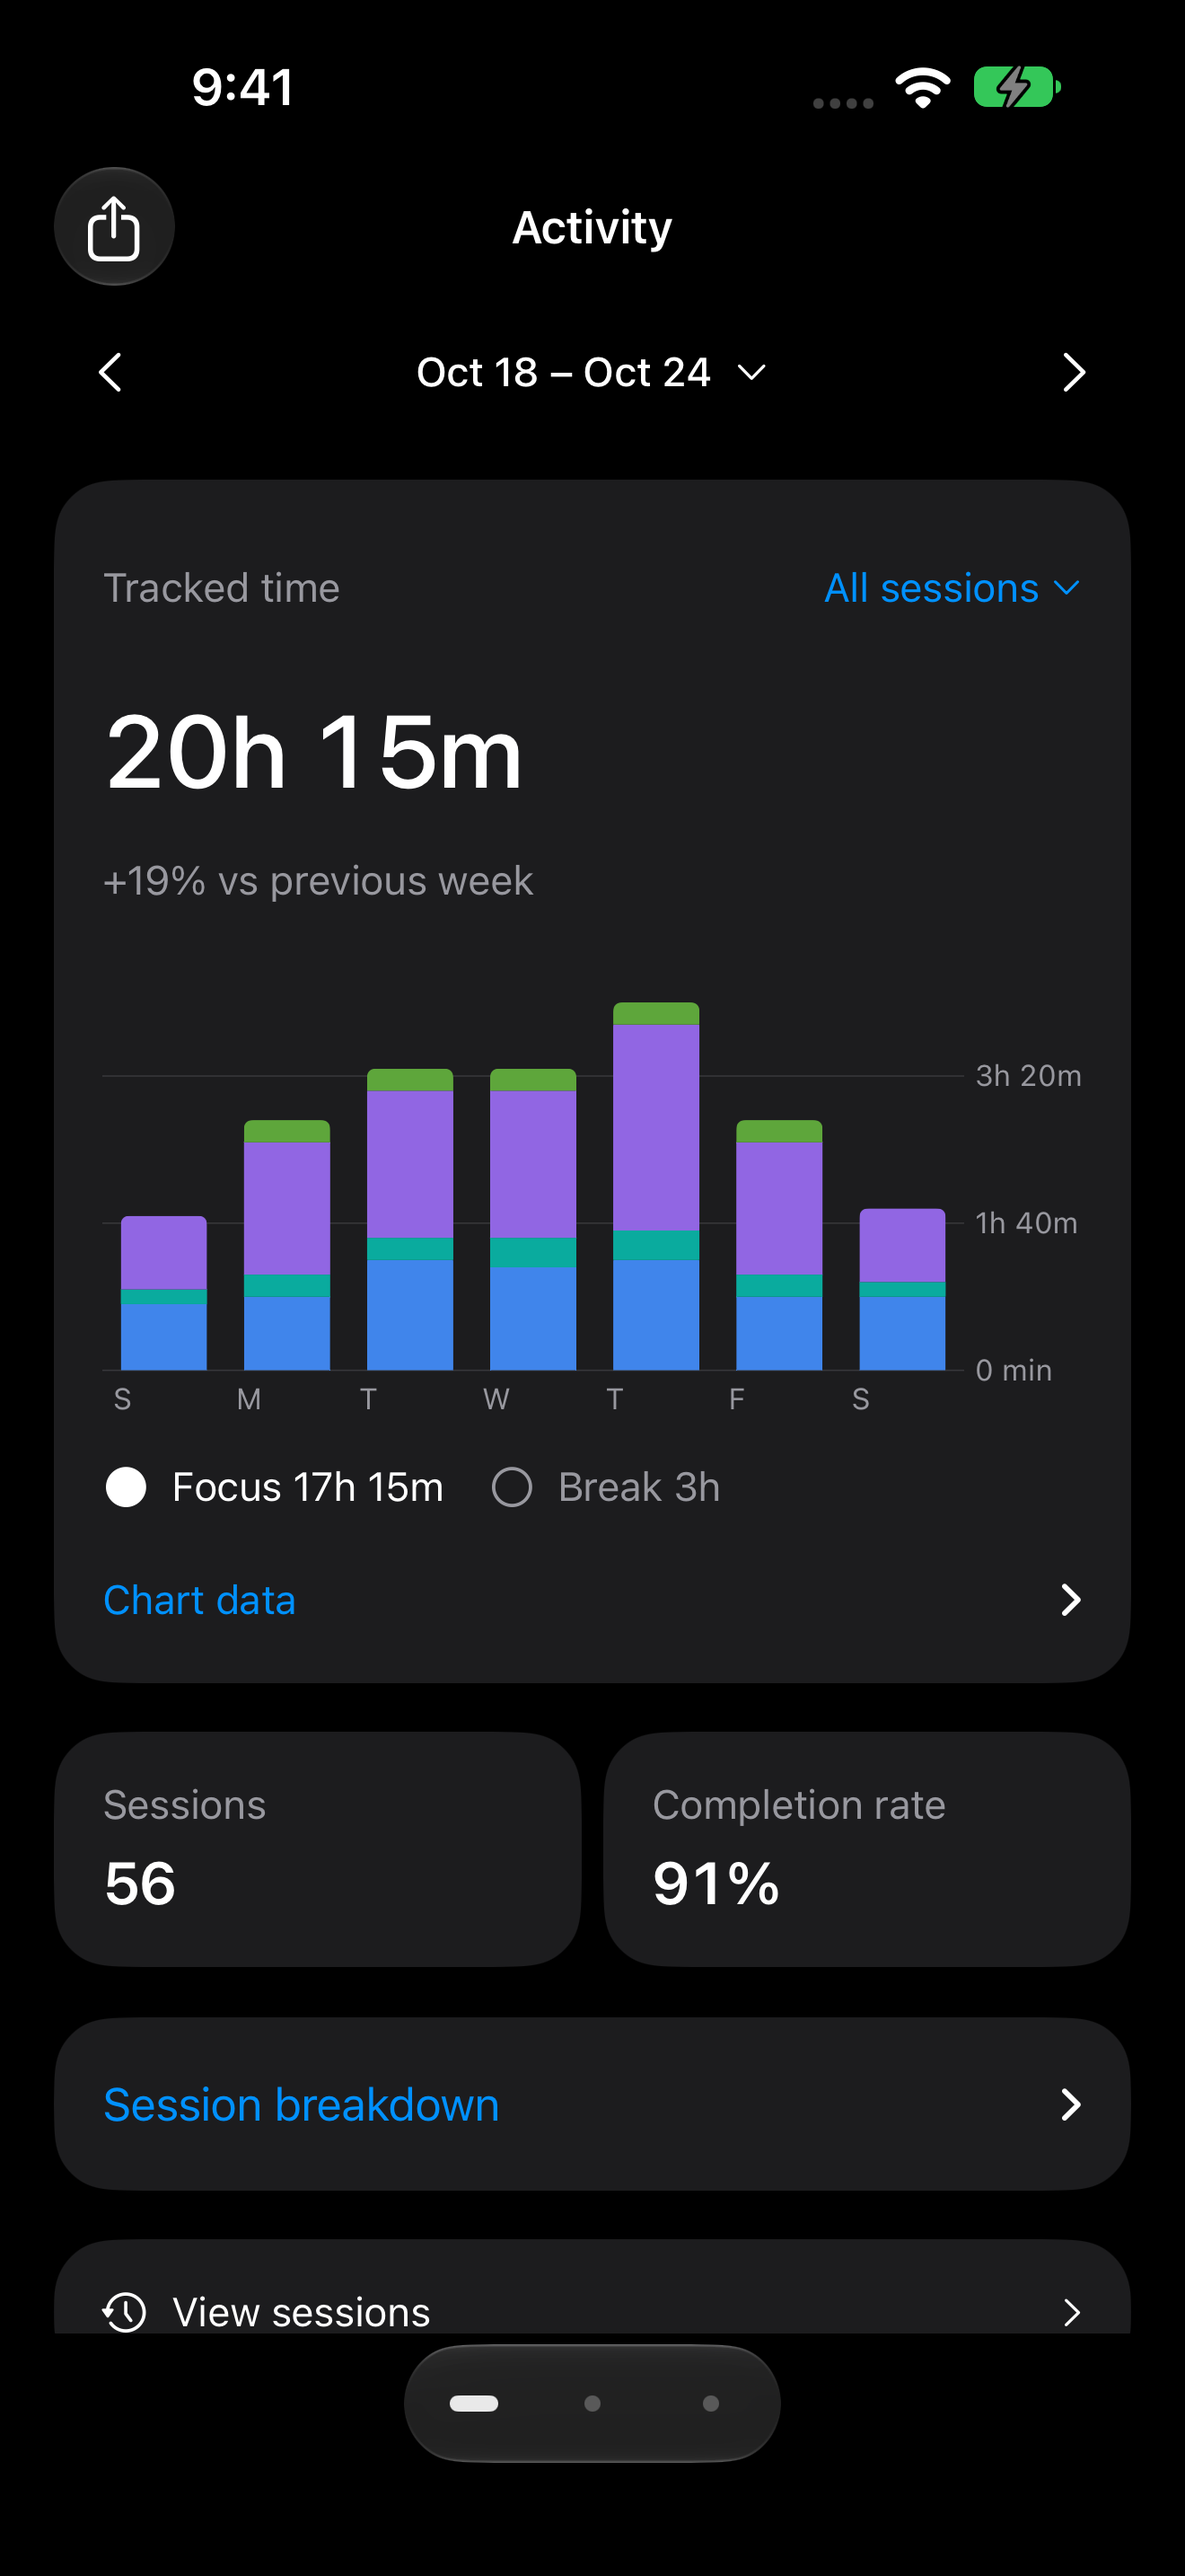
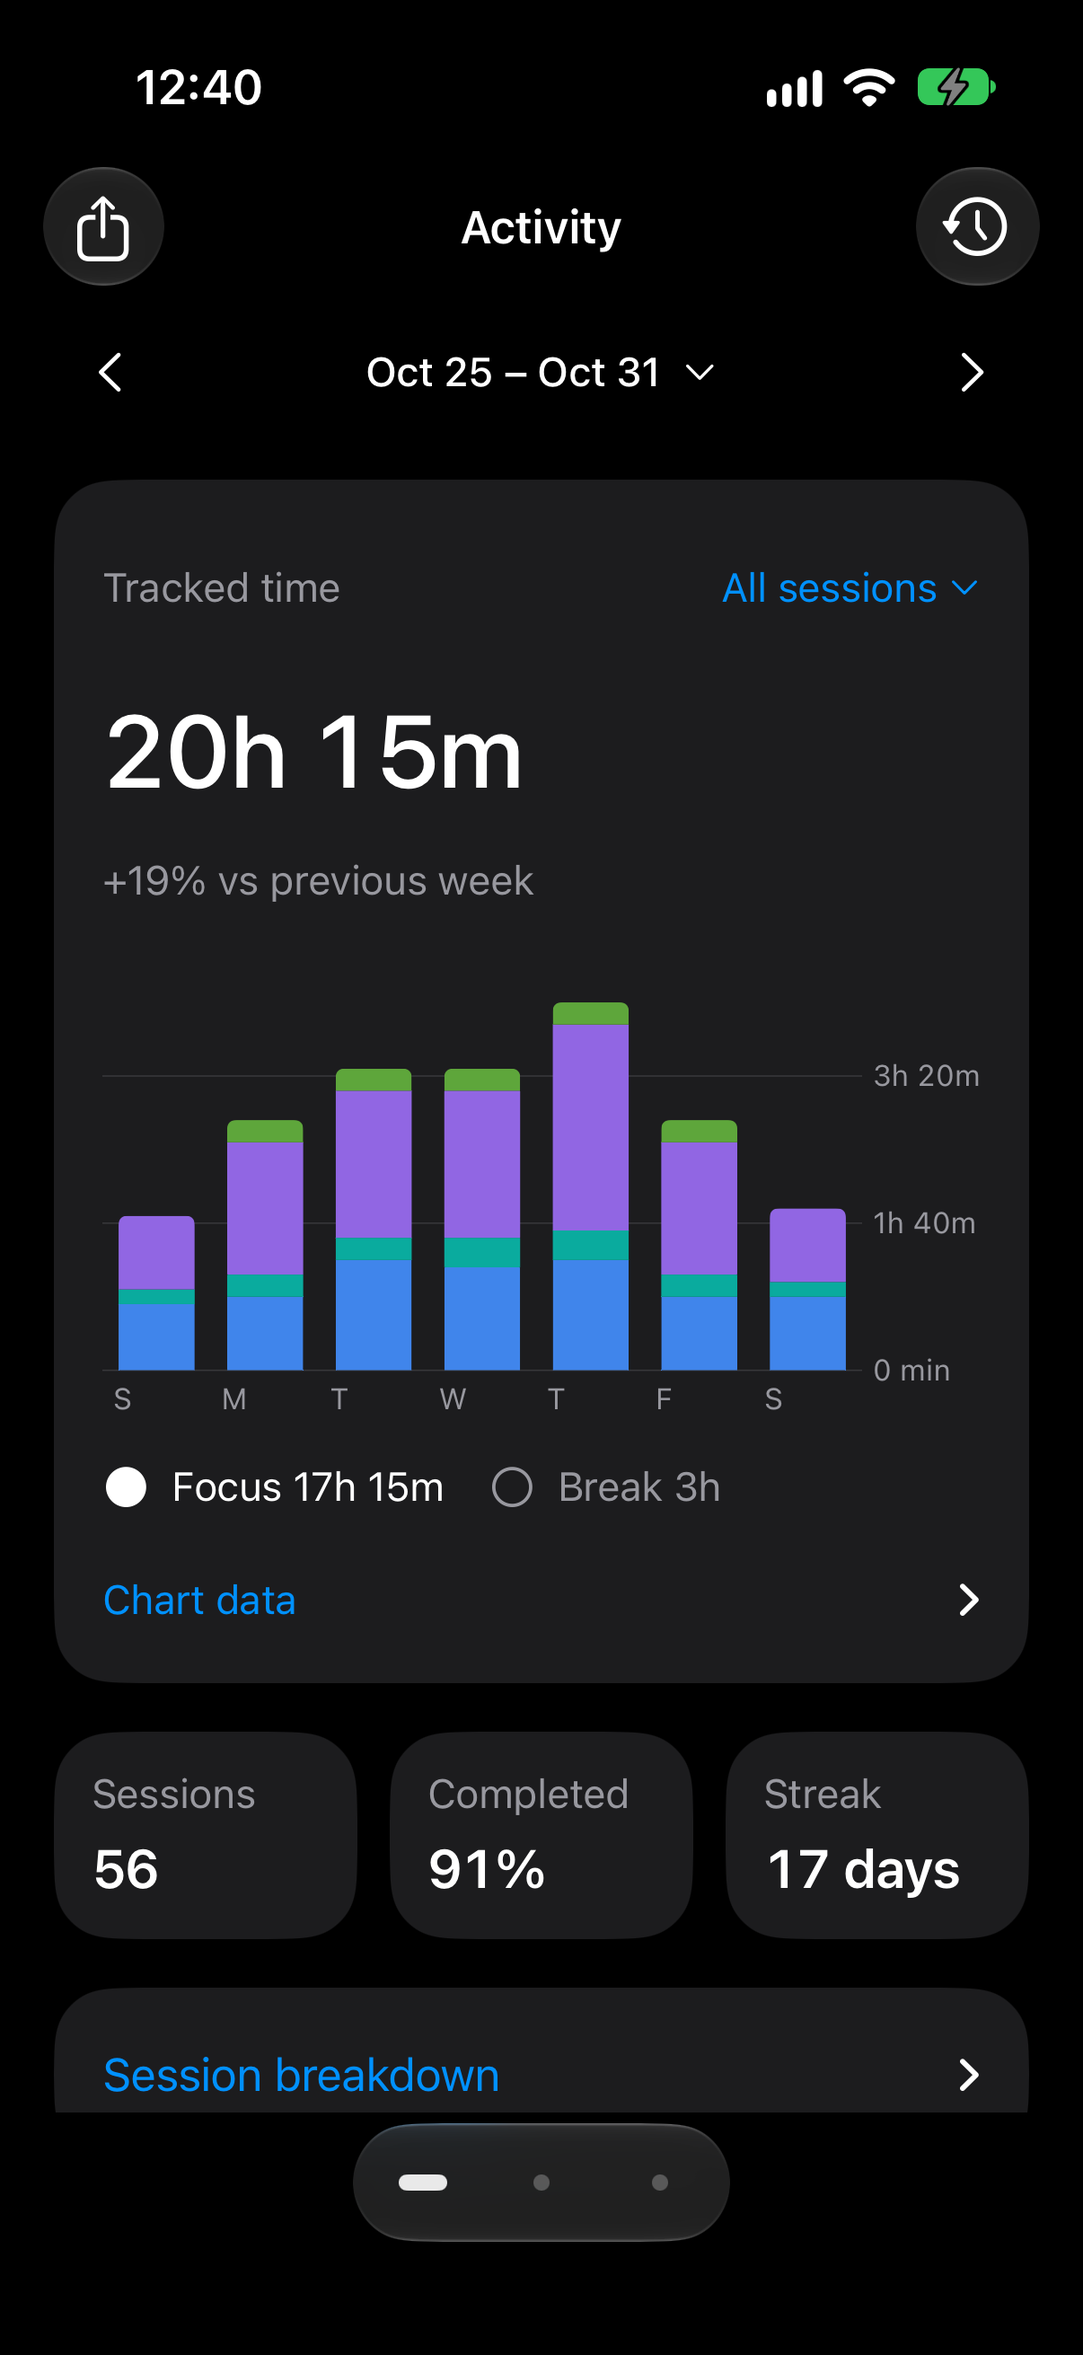
Refresh the gallery with the redesigned timer, Activity tiles and Live Activity

diff --git a/docs/gallery/overview.html b/docs/gallery/overview.html
@@ -3,15 +3,15 @@
 <head>
   <meta charset="utf-8">
   <meta name="viewport" content="width=device-width,initial-scale=1">
-  <title>SimpleTimer — timer, activity and Apple Watch</title>
+  <title>SimpleTimer: timer, activity and Apple Watch</title>
   <link rel="stylesheet" href="gallery.css">
 </head>
 <body>
 <main class="canvas">
   <header><div class="brand"><span class="brand-mark" aria-hidden="true"></span>SimpleTimer</div><p>iPhone + Apple Watch</p></header>
-  <section class="timer"><h1>A little more focus.</h1><div class="phone"><img src="../release-images/dashboard-running.png" alt="Running Work timer with equal-size End, Pause and Reset controls"></div></section>
-  <section class="activity"><h2>A clearer picture.</h2><div class="phone"><img src="../release-images/activity.png" alt="Sample Activity week with 20 hours 15 minutes, 56 sessions and 91 percent completion"></div></section>
-  <section class="wrist"><h2>Within reach.</h2><p>Control your iPhone timer<br>from your wrist.</p><div class="watch"><img src="../release-images/watch.png" alt="Apple Watch Work timer with Pause, End and Reset controls"></div><div class="note">One timer. One history.<br>No account required.</div></section>
+  <section class="timer"><h1>A little more focus.</h1><div class="phone"><img src="../release-images/dashboard-running.png" alt="Running Work timer with a large Pause button between round End and Reset buttons"></div></section>
+  <section class="activity"><h2>A clearer picture.</h2><div class="phone"><img src="../release-images/activity.png" alt="Sample Activity week with 20 hours 15 minutes, 56 sessions, 91 percent completed and a 17 day streak"></div></section>
+  <section class="wrist"><h2>Within reach.</h2><p>Control your iPhone timer from<br>your wrist or Lock Screen.</p><div class="watch"><img src="../release-images/watch.png" alt="Apple Watch Work timer with Pause, End and Reset controls"></div><div class="live"><img src="../release-images/live-activity.png" alt="Paused Work Live Activity with Resume, End and Reset controls"></div><div class="note">One timer. One history.<br>No account required.</div></section>
   <footer>Real simulator screens · Sample data · Decorative device frames</footer>
 </main>
 </body>

diff --git a/docs/gallery/gallery.css b/docs/gallery/gallery.css
@@ -11,7 +11,7 @@ header p { color: #9cb0c7; font-size: 19px; margin: 0; }
 section { position: absolute; top: 139px; }
 .timer { left: 64px; }
 .activity { left: 506px; }
-.wrist { left: 970px; width: 345px; top: 276px; }
+.wrist { left: 970px; width: 345px; top: 196px; }
 h1, h2 { font-size: 28px; font-weight: 500; letter-spacing: -.65px; margin: 0 0 27px; }
 .wrist h2 { font-size: 38px; letter-spacing: -1.1px; margin-bottom: 13px; }
 .wrist p { color: #a9bed3; font-size: 22px; line-height: 1.45; margin: 0 0 33px; }
@@ -22,5 +22,7 @@ h1, h2 { font-size: 28px; font-weight: 500; letter-spacing: -.65px; margin: 0 0 
 .watch::before { content: ""; position: absolute; right: -12px; top: 80px; width: 15px; height: 48px; background: repeating-linear-gradient(0deg,#414752 0 2px,#727a86 2px 3px); border: 2px solid #3f4651; border-radius: 8px; }
 .watch::after { content: ""; position: absolute; right: -3px; top: 173px; width: 4px; height: 59px; border-radius: 3px; background: linear-gradient(#666f7c,#202733); }
 .watch img { display: block; position: relative; width: 100%; border-radius: 65px; border: 2px solid #030507; background: #000; }
-.note { color: #a9bed3; font-size: 20px; line-height: 1.5; margin-top: 30px; }
+.live { margin-top: 30px; width: 345px; }
+.live img { display: block; width: 100%; border-radius: 26px; box-shadow: 0 0 0 1px #aeb8c240, 0 18px 40px #0007; }
+.note { color: #a9bed3; font-size: 20px; line-height: 1.5; margin-top: 28px; }
 footer { position: absolute; bottom: 42px; left: 64px; font-size: 16px; color: #8399b0; }

diff --git a/docs/VALIDATION.md b/docs/VALIDATION.md
@@ -13,7 +13,7 @@ Checked with Xcode 27, an iOS 27 iPhone simulator and a paired watchOS 27 simula
 - Light and dark dashboards inspected. The timer keeps its ambient background; session choices and the primary action have distinct proportions and touch regions.
 - Swipe pages and tappable dots with 44-point touch targets replace the dashboard's Activity and Settings buttons. The selected page has a wider indicator and an accessibility label.
 - System, Light and Dark settings persist across relaunch. Live changes were checked on the dashboard, Settings and its session editor. Native scroll paging keeps destination screens in the same appearance.
-- Start, Pause and Resume use one large capsule. End and Reset appear beside it as 64-point round buttons only while a session is active, and as labelled buttons at accessibility text sizes. Running and ready states were checked in dark mode, and running in light mode, on an iOS 27 simulator. Reset restores the full duration and waits for Start. Reset from the iPhone, Watch and Live Activity was checked on simulators. Each returned to the full duration with Start available and left all 100 sample history records unchanged. The Watch keeps End and Reset together in 44-point controls.
+- Start, Pause and Resume use one large capsule. End and Reset appear beside it as 64-point round buttons only while a session is active, and as labelled buttons at accessibility text sizes. Running and ready states were checked in dark mode, running in light mode, and paused at the largest accessibility text size on an iOS 27 simulator. Reset restores the full duration and waits for Start. Reset from the iPhone, Watch and Live Activity was checked on simulators. Each returned to the full duration with Start available and left all 100 sample history records unchanged. The Watch keeps End and Reset together in 44-point controls.
 - The largest accessibility text size stacks running controls vertically; navigation remains visible. Offscreen pages are hidden from the accessibility tree.
 - Activity range menu, filtered history and session details exercised using synthetic history.
 - Duration quick choices and named colour selection saved successfully. Largest accessibility text size checked on dashboard, Activity and the session editor.
@@ -25,9 +25,10 @@ Checked with Xcode 27, an iOS 27 iPhone simulator and a paired watchOS 27 simula
 
 - Tapping another session while a timer runs asks before switching; dismissing the prompt keeps the running session. The suggested break appeared after a foreground completion and started with one tap.
 - A timer that reaches zero while the app is open now completes and saves. Previously the completion check could run inside the final second and leave the timer at 00:00.
-- The Live Activity uses a near-opaque dark background and a stop symbol for End. Its legibility was checked on the simulator Lock Screen in dark mode; physical devices and bright custom wallpapers were not checked.
-- The Activity page shows Sessions, Completed and Streak tiles, one Sessions card for the selected range, and All history in the toolbar. Keep screen on appears in Settings; its idle-timer effect needs a physical device and was not checked.
+- The Live Activity uses a near-opaque dark background and a stop symbol for End. Its legibility was checked on the simulator Lock Screen in light and dark mode, and its Pause button paused the saved iPhone timer. Physical devices and bright custom wallpapers were not checked. The simulator shows running seconds as dashes on the Lock Screen; paused times show in full.
+- The Activity page shows Sessions, Completed and Streak tiles, one Sessions card for the selected range, and All history in the toolbar. With Keep screen on enabled, a debugger read of the running simulator app showed the idle timer disabled only while a session runs: on while running, off while paused, and off while running with the setting off.
 
+- On paired iPhone 17 and Apple Watch Ultra 4 simulators, starting from Watch and then picking another session asked before switching; Switch saved the running session as switched on the iPhone. Watch session lengths read "1 hr 30 min" like iPhone.
 - Rapid Watch changes (Work → Deep Work → Short Break) converged to the same confirmed session on both simulators. Changes made on iPhone also updated the already-open Watch Sessions screen.
 - Watch Start and Pause produced matching saved session IDs and phases on both simulators. The confirmed paused session survived companion relaunch.
 - A demo iPhone shutdown/reconnect left the confirmed paused timer unchanged; an offline Resume was not replayed.
@@ -39,7 +40,7 @@ Watch interface changes are checked on paired simulators; no full physical Watch
 
 No full spoken VoiceOver audit or iOS 17–25 device run is claimed. Opaque fallbacks are implemented for Reduce Transparency and Increase Contrast. Live Activity and notification code is retained; physical Lock Screen controls, sound under Focus settings and device-reboot behaviour have not been revalidated for this release.
 
-The single README gallery shows the timer, Activity and Watch. Its Activity view uses a complete synthetic week (56 sessions, 20h 15m tracked, 91% completion), with an earlier week for comparison. Repository screenshots contain synthetic simulator data, never personal history. Builds, local signing settings, device identifiers and development history are excluded from the public snapshot.
+The single README gallery shows the timer, Activity, Watch and a paused Live Activity. Its Activity view uses a complete synthetic week (56 sessions, 20h 15m tracked, 91% completed, 17 day streak), with an earlier week for comparison. Repository screenshots contain synthetic simulator data, never personal history. Builds, local signing settings, device identifiers and development history are excluded from the public snapshot.
 
 The clean public checkout builds with the anonymous example configuration. Gitleaks scans of the source and new Git history found no secrets; a separate tracked-file audit found no private signing values, email addresses, home-directory paths or device IDs. Screenshot metadata was removed without changing image pixels. These checks reduce accidental disclosure; they are not a security certification.
 

diff --git a/docs/GALLERY.md b/docs/GALLERY.md
@@ -1,12 +1,12 @@
 # SimpleTimer gallery
 
-One view of the experience: focus on iPhone, review your activity, and control the timer from Apple Watch.
+One view of the experience: focus on iPhone, review your activity, and control the timer from Apple Watch or the Lock Screen.
 
-![Timer, Activity and Apple Watch](release-images/overview.jpg)
+![Timer, Activity, Apple Watch and Live Activity](release-images/overview.jpg)
 
-Open a full-resolution screen: [Timer](release-images/dashboard-running.png) · [Activity](release-images/activity.png) · [Apple Watch](release-images/watch.png).
+Open a full-resolution screen: [Timer](release-images/dashboard-running.png) · [Activity](release-images/activity.png) · [Apple Watch](release-images/watch.png) · [Live Activity](release-images/live-activity.png).
 
-These are real app screens from paired simulators. The Activity example uses 100 synthetic sessions across two weeks. The featured complete week contains 56 sessions, 20h 15m tracked and 91% completion. The device frames are decorative; no personal device screens or history are used.
+These are real app screens from paired simulators in dark mode. The Activity example uses 110 synthetic sessions: two complete weeks plus the two days before capture, which keeps the streak going. The featured complete week contains 56 sessions, 20h 15m tracked, 91% completed and a 17 day streak. The Live Activity is shown paused because the simulator hides running seconds on the Lock Screen. The device frames are decorative; no personal device screens or history are used.
 
 ## Updating the gallery
 

diff --git a/README.md b/README.md
@@ -4,7 +4,7 @@ A time tracker and focus app for iPhone, built to understand how you work. Optio
 
 Pick a session. Start when you're ready. Nothing starts automatically.
 
-![SimpleTimer: a running timer, a complete week of Activity and Apple Watch controls](docs/release-images/overview.jpg)
+![SimpleTimer: a running timer, a complete week of Activity, Apple Watch and Lock Screen controls](docs/release-images/overview.jpg)
 
 [View full-size screens](docs/GALLERY.md) · Simulator screens with sample data.
 
